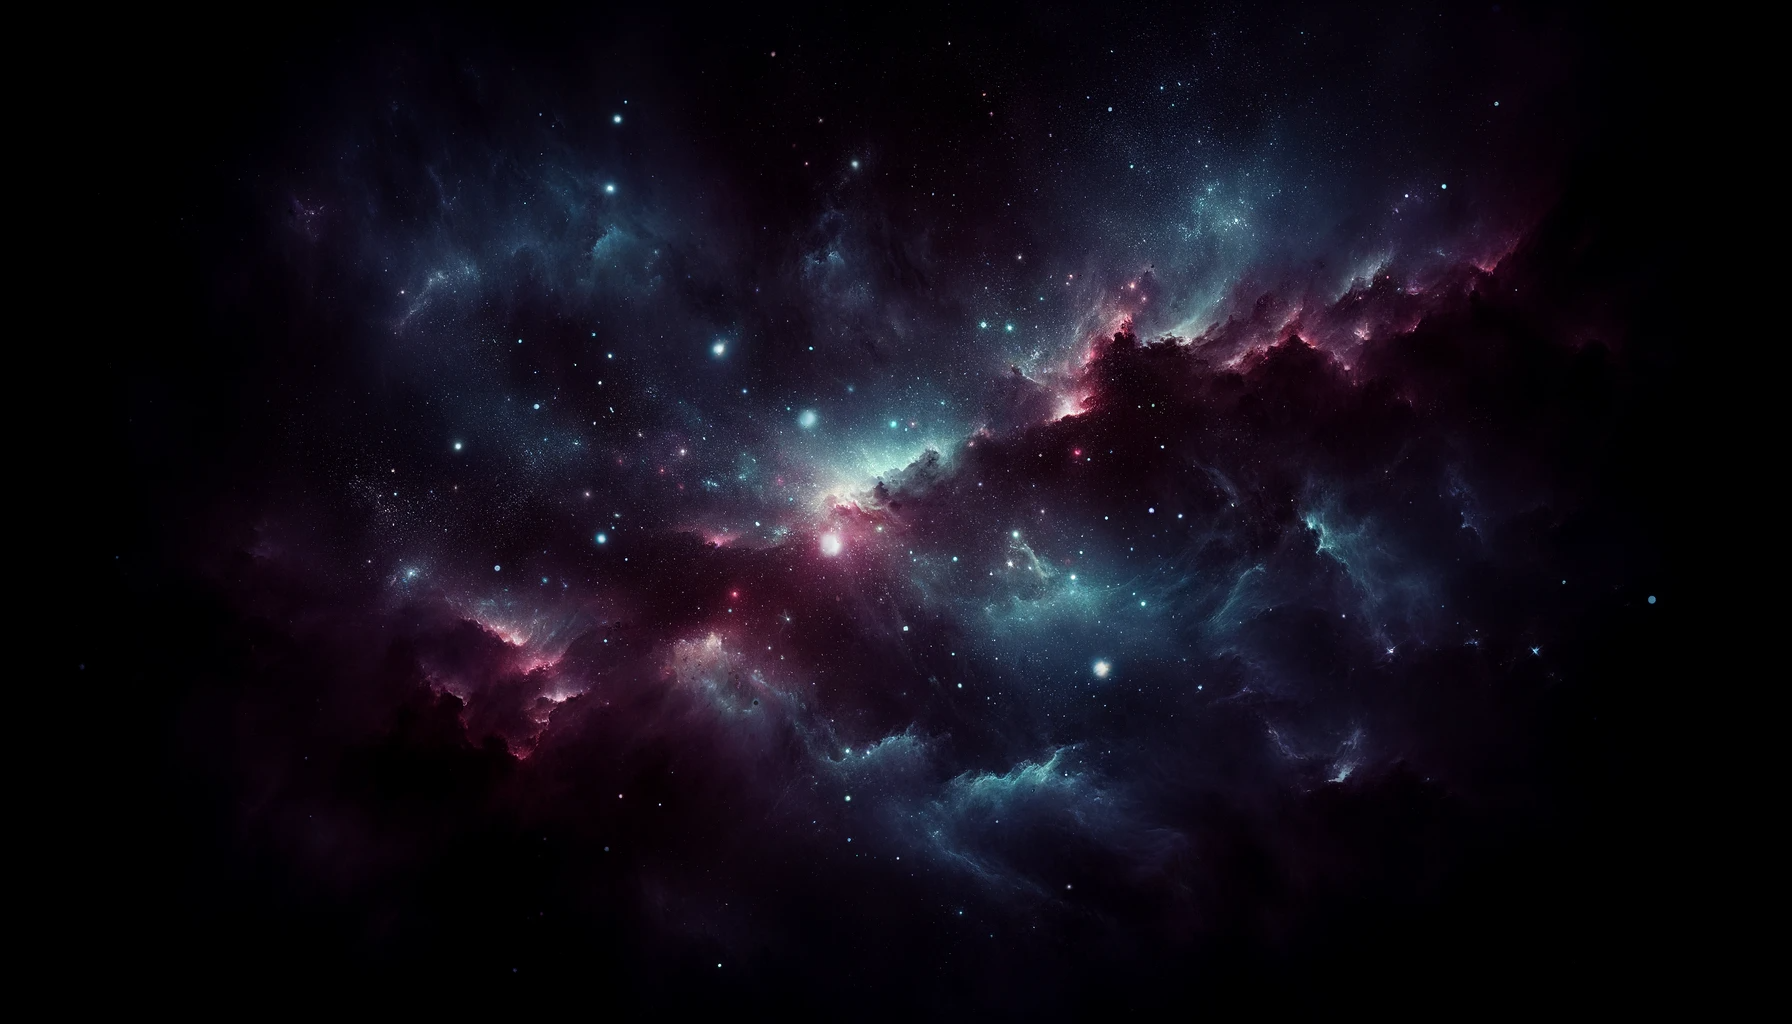
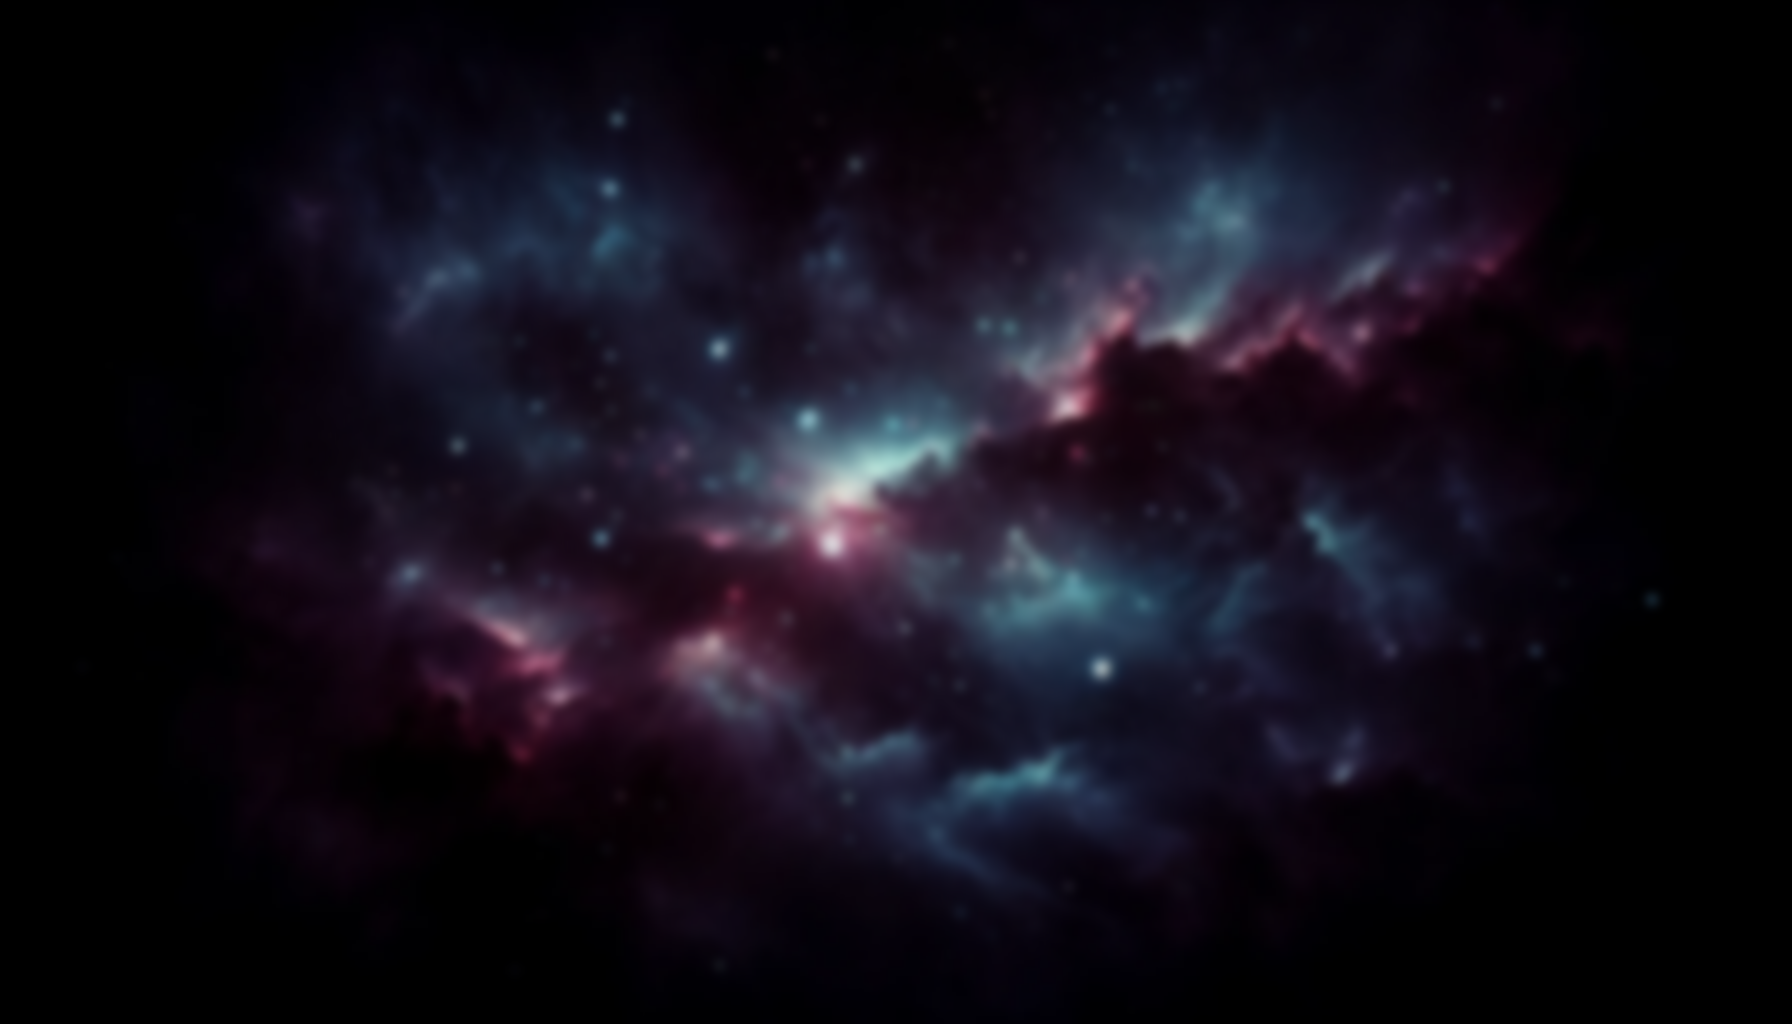
fixed some styling issues

diff --git a/app/layout.tsx b/app/layout.tsx
@@ -17,7 +17,7 @@ export default function RootLayout({
 }) {
   return (
     <html lang="en">
-    <body className={`${inter.className} space-background `} style={{ backdropFilter: 'blur(10px)', height: '100vh' }}>
+    <body className={`${inter.className} space-background`}>
         <Navbar />
         {children}
       </body>

diff --git a/components/WelcomeImage.tsx b/components/WelcomeImage.tsx
@@ -129,7 +129,7 @@ const WelcomeImage: React.FC<WelcomeImageProps> = ({ hourCount }) => {
   }, []);
 
   return (
-    <div>
+    <div className="z-10">
       {status == "not-loaded" && <p>Loading...</p>}
       {status == "loaded" && (
         <Image
